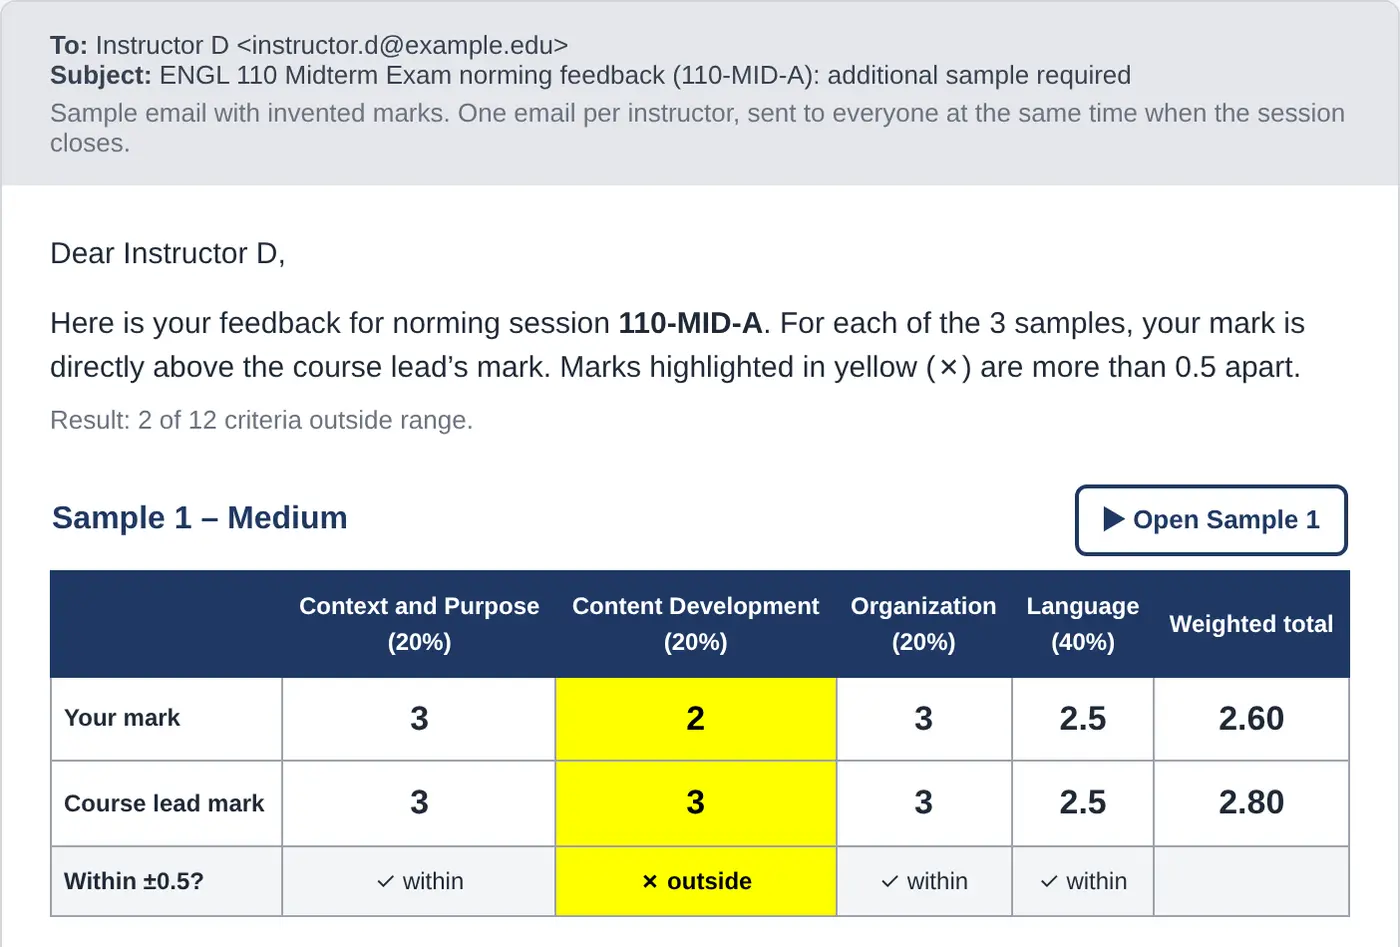
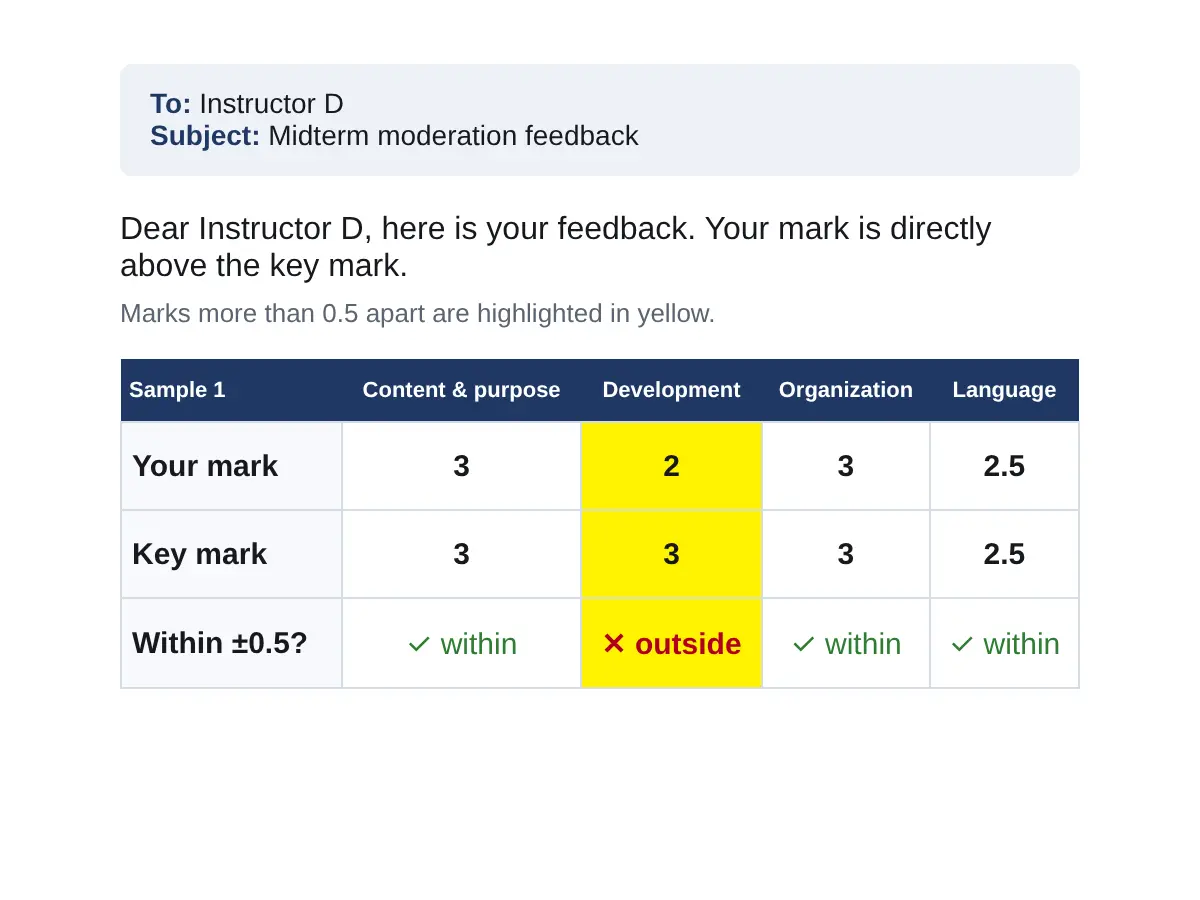
Moderation system: simplified scoring form and feedback email drawings
Claude-Session: https://claude.ai/code/session_01BaT6a6VR8wXUtNSRAbm432

diff --git a/site/work/moderation-hub/index.html b/site/work/moderation-hub/index.html
@@ -38,7 +38,7 @@
   </div>
   </div>
   <div class="container">
-    <div class="cs-shots"><a class="shot" href="/media/moderation/control-room.webp" target="_blank" rel="noopener"><img src="/media/moderation/control-room.webp" alt="A simplified view of the Control Room: the course lead fills in the course, exam, samples and opening and closing dates. Everything else runs automatically."><span>The Control Room: where the course lead sets up each session</span></a><a class="shot" href="/media/moderation/scoring-form.webp" target="_blank" rel="noopener"><img src="/media/moderation/scoring-form.webp" alt="The Microsoft Form lecturers use to score each writing sample against the rubric. Invented sample data."><span>The scoring form lecturers fill in</span></a><a class="shot" href="/media/moderation/feedback-email.webp" target="_blank" rel="noopener"><img src="/media/moderation/feedback-email.webp" alt="A feedback email showing a lecturer's marks directly above the course lead's marks, with marks more than 0.5 apart highlighted. Invented sample data."><span>The feedback email each lecturer receives</span></a></div>
+    <div class="cs-shots"><a class="shot" href="/media/moderation/control-room.webp" target="_blank" rel="noopener"><img src="/media/moderation/control-room.webp" alt="A simplified view of the Control Room: the course lead fills in the course, exam, samples and opening and closing dates. Everything else runs automatically."><span>The Control Room: where the course lead sets up each session</span></a><a class="shot" href="/media/moderation/scoring-form.webp" target="_blank" rel="noopener"><img src="/media/moderation/scoring-form.webp" alt="A simplified view of the scoring form: lecturers read the prompt and rubric, open each sample and choose a mark for each criterion."><span>The scoring form lecturers fill in</span></a><a class="shot" href="/media/moderation/feedback-email.webp" target="_blank" rel="noopener"><img src="/media/moderation/feedback-email.webp" alt="A simplified feedback email: the lecturer's marks sit directly above the key marks, and a mark more than 0.5 apart is highlighted in yellow."><span>The feedback email each lecturer receives</span></a></div>
     <dl class="facts facts-3">
       <div><dt class="label">My role</dt><dd>Instructional designer and developer: needs analysis, design, build, testing and documentation.</dd></div>
       <div><dt class="label">Competencies</dt><dd><p class="comp-sub">Core</p><ul class="comp-list"><li>Grading, norming and exam development</li><li>Assessment design and learning outcomes</li><li>Formative assessment and feedback</li><li>Accreditation and program improvement</li><li>Faculty mentoring and stakeholder engagement</li></ul><p class="comp-sub">AI</p><ul class="comp-list"><li>Quality assurance and workflow design</li><li>AI-assisted design and build with Claude, with documented human review</li></ul></dd></div>

diff --git a/tools/content.py b/tools/content.py
@@ -69,7 +69,7 @@ dict(
 ),
 # ---------------------------------------------------------------- 1b
 dict(
-  slug="moderation-hub", art="moderation", cats=["courses"], shots=[("/media/moderation/control-room.webp", "A simplified view of the Control Room: the course lead fills in the course, exam, samples and opening and closing dates. Everything else runs automatically.", "The Control Room: where the course lead sets up each session"), ("/media/moderation/scoring-form.webp", "The Microsoft Form lecturers use to score each writing sample against the rubric. Invented sample data.", "The scoring form lecturers fill in"), ("/media/moderation/feedback-email.webp", "A feedback email showing a lecturer's marks directly above the course lead's marks, with marks more than 0.5 apart highlighted. Invented sample data.", "The feedback email each lecturer receives")],
+  slug="moderation-hub", art="moderation", cats=["courses"], shots=[("/media/moderation/control-room.webp", "A simplified view of the Control Room: the course lead fills in the course, exam, samples and opening and closing dates. Everything else runs automatically.", "The Control Room: where the course lead sets up each session"), ("/media/moderation/scoring-form.webp", "A simplified view of the scoring form: lecturers read the prompt and rubric, open each sample and choose a mark for each criterion.", "The scoring form lecturers fill in"), ("/media/moderation/feedback-email.webp", "A simplified feedback email: the lecturer's marks sit directly above the key marks, and a mark more than 0.5 apart is highlighted in yellow.", "The feedback email each lecturer receives")],
   tag="Instructional design · Microsoft 365 and Rise 360",
   title="Embedded Calibrated Grading and Automated Writing Moderation System",
   summary="I built a Microsoft 365 system that automates writing moderation (grading calibration) for exams, with a Rise 360 orientation for lecturers.",
